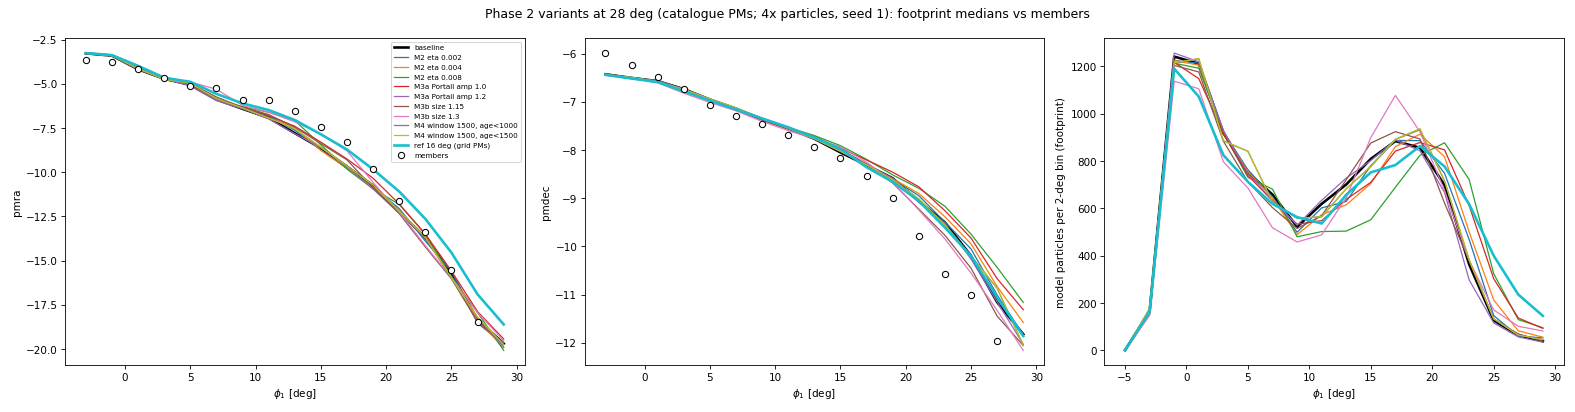
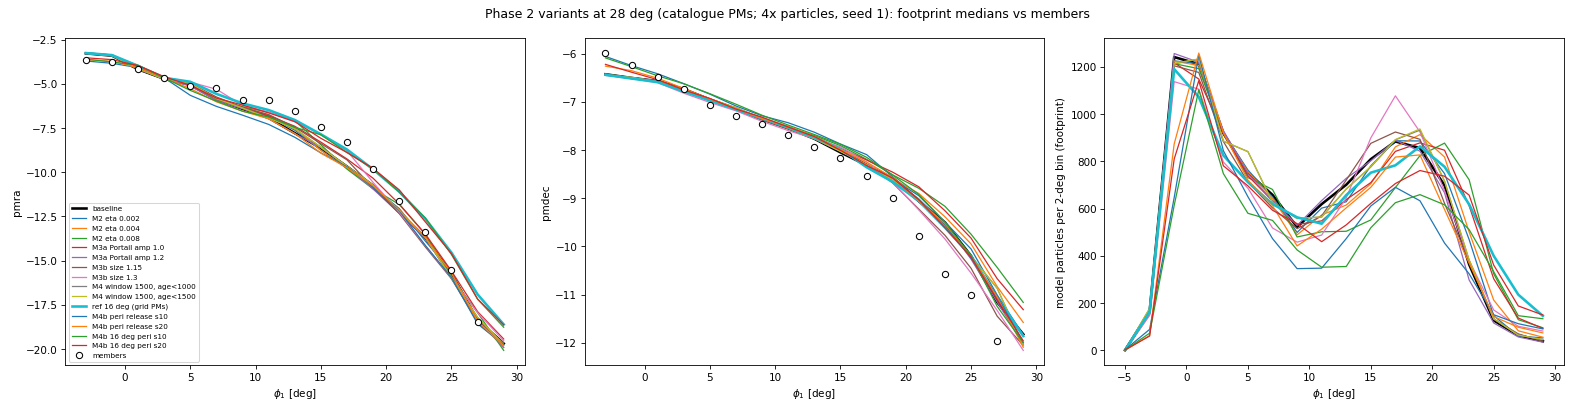
M4b: pericentre-concentrated release worsens the fit

diff --git a/JOURNAL.md b/JOURNAL.md
@@ -7186,3 +7186,5 @@ baseline (-23714.4; 16-deg reference -22207.4):
 - slowing bar with Omega_b(today) 31-34: all worse (best Omega 34: -689 for eta 0.002 and 0.004; lower Omega much worse).
 The queued M4b and P1 runs did not start (nohup watchers died with their parent shell); relaunched as one chain together with the
 Omega_b 37/38 extension.
+M4b (release concentrated at pericentres, Gaussian sigma 10 / 20 Myr; pericentres ~88 Myr apart): dlnL vs the 28-deg uniform
+baseline: 28 deg -960 / -102; 16 deg -154 / +1186 (uniform: +1507). Pericentre-concentrated release worsens both; not a fix.
